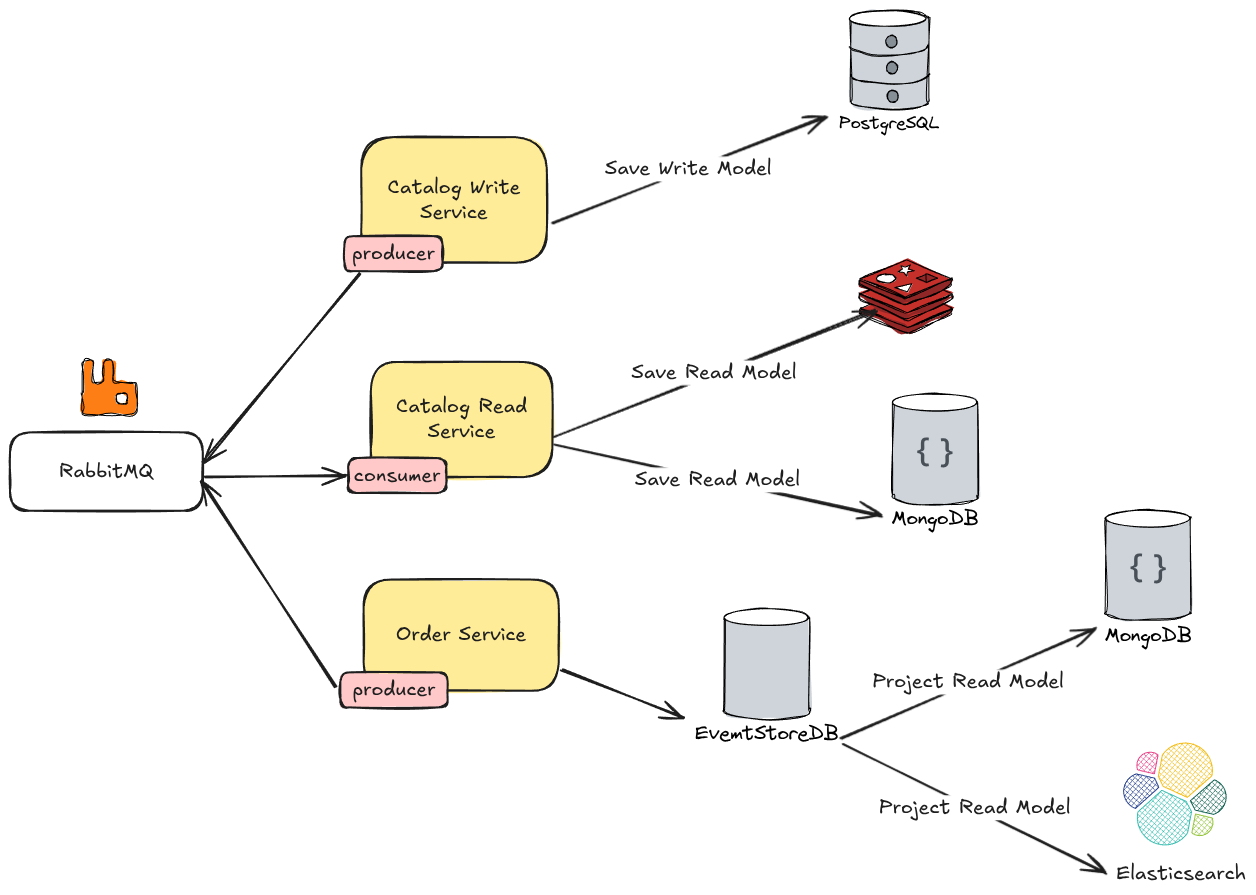
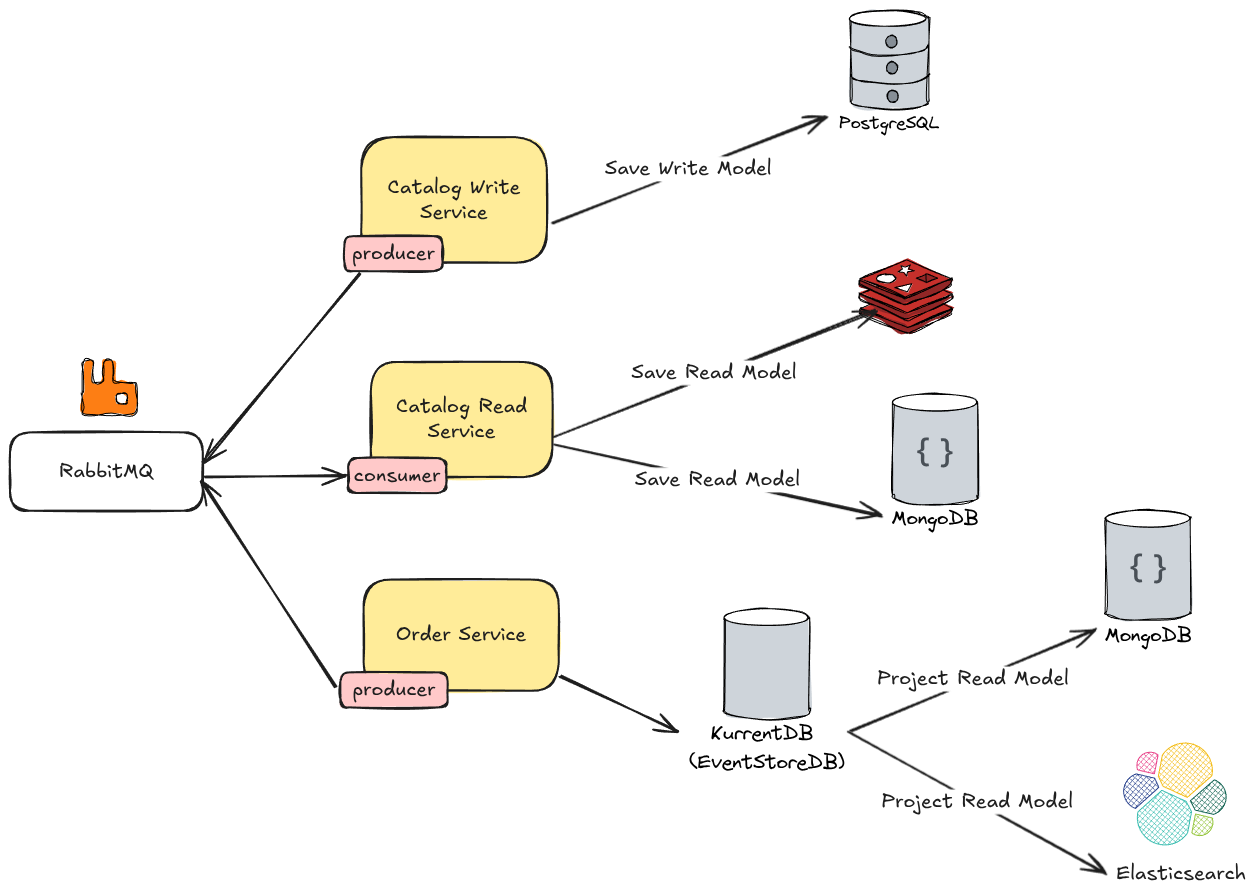
fix docker compose

Changed region(s): [[0.4968, 0.724, 0.8694, 0.9654], [0.4347, 0.7542, 0.4968, 0.7844], [0.8384, 0.6939, 0.8694, 0.724]]

diff --git a/README.md b/README.md
@@ -15,7 +15,7 @@ This application is primarily intended for exploring technical concepts. My goal
   - `PostgreSQL` for write operations
   - `MongoDB` and `ElasticSearch` for read operations
   - `Redis` for caching
-  - `EventStoreDB` for event sourcing
+  - `KurrentDB/EventStoreDB` for event sourcing
 - ✅ `Unit Test` for testing small units with mocking dependent classes and using [Mockery](https://github.com/vektra/mockery) for mocking dependencies
 - ✅ Using `End2End Test` and `Integration Test` for testing features with all of their real dependencies using docker containers (cleanup tests) and [testcontainers-go](https://github.com/testcontainers/testcontainers-go) library
 - ✅ Using `Zap` and structured logging
